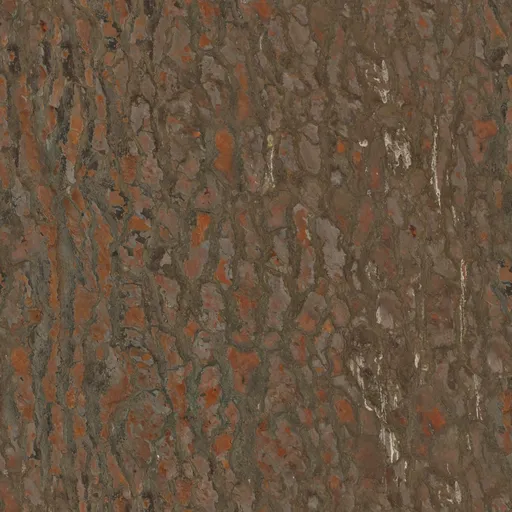
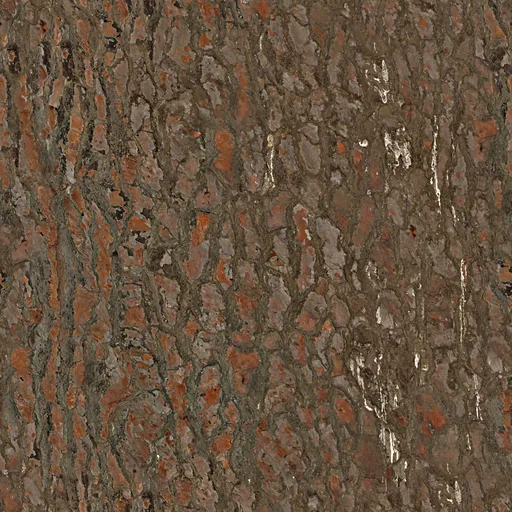
見渡す：「動作と方向」の許可を毎回聞かないように（横向きボタンを押したときだけ。許可済みなら聞かずに傾きを使う）。幹の樹皮の色を落ち着かせ、模様を細かく・凹凸を強く、丸い幹の陰をなめらかに
Claude-Session: https://claude.ai/code/session_01Xg49PJQ9EL5FHUZ5isJe5o

diff --git a/index.html b/index.html
@@ -4882,7 +4882,7 @@ async function pLookOpen(){
   /* 木の見た目：ゼルダ調（塗り）か、写真の質感か。写真の素材（Poly Haven・CC0）は先に読み始めておく */
   const REALT=(()=>{ const q=new URLSearchParams(location.search).get('lkreal'); if(q!=null) return q==='1'; try{ return localStorage.getItem('ql-tree')==='real'; }catch(e){ return false; } })();
   /* 幹の樹皮は写真（Poly Haven・CC0：ケヤキ・クスノキ・桜・トウカエデ・コナラ・マツ）。凹凸の向き（法線）の絵も使って、光で溝が陰になる */
-  const PBN=['zelkova','camphor','sakura','maple','oak','pine'], BIMG=/lkoldbark/.test(location.search)?null:Promise.all(PBN.flatMap(n=>['tex_b_','tex_bn_'].map(p=>new Promise(r=>{ const i=new Image(); i.onload=()=>r(i); i.onerror=()=>r(null); i.src=p+n+'.webp?v=1'; }))));
+  const PBN=['zelkova','camphor','sakura','maple','oak','pine'], BIMG=/lkoldbark/.test(location.search)?null:Promise.all(PBN.flatMap(n=>['tex_b_','tex_bn_'].map(p=>new Promise(r=>{ const i=new Image(); i.onload=()=>r(i); i.onerror=()=>r(null); i.src=p+n+'.webp?v=2'; }))));
   const RIMG=REALT?Promise.all(['leaf','twig','bark'].map(n=>new Promise(r=>{ const i=new Image(); i.onload=()=>r(i); i.onerror=()=>r(null); i.src='tex_'+n+'.webp?v=1'; }))):null;
   if(!L.alive) return;
   const mir=x=>x /* 旅の幅の外も折り返さず、地図と同じ土地をそのまま続ける */, vOf=y=>y/PX+pOff, rng=pRng('lk'+k,3), sm=(a,b,x)=>{ const t=Math.max(0,Math.min(1,(x-a)/(b-a))); return t*t*(3-2*t); };
@@ -4924,12 +4924,13 @@ async function pLookOpen(){
      TILT＝1：左に倒した（右の辺が上）　-1：右に倒した（左の辺が上）　0：縦 */
   const applyLand=()=>{ const real=window.innerWidth>window.innerHeight, t=AUTO&&!real?TILT:0; ov.classList.toggle('land',t===1); ov.classList.toggle('landR',t===-1); ov.style.setProperty('--vw',window.innerWidth+'px'); ov.style.setProperty('--vh',window.innerHeight+'px'); rotB.classList.toggle('on',AUTO); rotB.style.display=real?'none':''; L.land=t; };
   const rs=()=>{ applyLand(); const w=ov.clientWidth, h=ov.clientHeight; ren.setSize(w,h,false); cam.aspect=w/h; cam.updateProjectionMatrix(); }; L.rs=rs; window.addEventListener('resize',rs); window.addEventListener('orientationchange',()=>setTimeout(rs,250)); rs();
-  { let gx=0, gy=-9.8; const onM=e=>{ const g=e.accelerationIncludingGravity; if(!g||g.x==null) return; gx+=(g.x-gx)*.2; gy+=(g.y-gy)*.2; let t=TILT; if(Math.abs(gx)>6.2&&Math.abs(gx)>Math.abs(gy)*1.4) t=gx<0?1:-1; else if(Math.abs(gy)>6.2&&Math.abs(gy)>Math.abs(gx)*1.4) t=0; if(t!==TILT){ TILT=t; rs(); } };
+  { let gx=0, gy=-9.8; let live=false; const onM=e=>{ const g=e.accelerationIncludingGravity; if(!g||g.x==null) return; live=true; gx+=(g.x-gx)*.2; gy+=(g.y-gy)*.2; let t=TILT; if(Math.abs(gx)>6.2&&Math.abs(gx)>Math.abs(gy)*1.4) t=gx<0?1:-1; else if(Math.abs(gy)>6.2&&Math.abs(gy)>Math.abs(gx)*1.4) t=0; if(t!==TILT){ TILT=t; rs(); } };
     let asked=false; const ask=()=>{ if(asked||!AUTO) return; asked=true; const DM=window.DeviceMotionEvent; if(DM&&typeof DM.requestPermission==='function') DM.requestPermission().then(r=>{ if(r==='granted') window.addEventListener('devicemotion',onM); }).catch(()=>{}); else window.addEventListener('devicemotion',onM); };
     L.motionOff=()=>window.removeEventListener('devicemotion',onM);
-    if(!(window.DeviceMotionEvent&&typeof DeviceMotionEvent.requestPermission==='function')) ask(); /* 許可のいらない端末はすぐ */
-    ov.addEventListener('click',ask,true); ov.addEventListener('touchend',ask,true); /* iPhoneは、最初に画面に触れたときに一度だけ「動きと向き」の許可を聞く */
-    rotB.addEventListener('click',e=>{ e.stopPropagation(); AUTO=!AUTO; try{ localStorage.setItem('ql-land',AUTO?'1':'0'); }catch(e){} if(AUTO) ask(); rs(); }); }
+    /* 許可を聞くのは、横向きボタンを押したときだけ（毎回、画面に触れるたびに聞かれないように）。すでに許可されていれば、聞かずに傾きを使う */
+    window.addEventListener('devicemotion',onM); if(!(window.DeviceMotionEvent&&typeof DeviceMotionEvent.requestPermission==='function')) asked=true;
+    rotB.addEventListener('click',e=>{ e.stopPropagation(); if(!live&&!asked&&window.DeviceMotionEvent&&typeof DeviceMotionEvent.requestPermission==='function'){ AUTO=true; try{ localStorage.setItem('ql-land','1'); }catch(e){} asked=true; DeviceMotionEvent.requestPermission().catch(()=>{}); rs(); return; }
+      AUTO=!AUTO; try{ localStorage.setItem('ql-land',AUTO?'1':'0'); }catch(e){} rs(); }); }
   /* 画面の指の動きを、まわした中の向きに直す */ const tc=(x,y)=>L.land===1?{x:y,y:window.innerWidth-x}:L.land===-1?{x:window.innerHeight-y,y:x}:{x,y};
   // ---- 太陽と空の色（今の時刻・天気）----
   let wx=null; try{ wx=JSON.parse(localStorage.getItem(WX_KEY)||'null'); }catch(e){} const wc=+(new URLSearchParams(location.search).get('wx'))||(isT&&wx&&Date.now()-wx.at<3*3600e3?wx.code:1), cc=isT&&wx&&wx.cc!=null?wx.cc:35, rl=WXFX.rain[wc]||0, sl=WXFX.snow[wc]||0, wet=rl||sl;
@@ -5256,10 +5257,11 @@ void main() {`)
   //  4つの形：横に広い傘の木／丸い木／幹の高い木／若い木
   const RI=RIMG?await Promise.race([RIMG,new Promise(r=>setTimeout(()=>r(null),8000))]):null, RLf=RI&&RI[0], RTw=RI&&RI[1], RBk=RI&&RI[2];
   const BI=BIMG?await Promise.race([BIMG,new Promise(r=>setTimeout(()=>r(null),8000))]):null, PB={};
-  if(BI) PBN.forEach((n,i)=>{ const d=BI[2*i], nm=BI[2*i+1]; if(!d||!nm) return; const m=new T.Texture(d), q=new T.Texture(nm); m.colorSpace=T.SRGBColorSpace; m.anisotropy=2; q.colorSpace=T.NoColorSpace; for(const t of [m,q]){ t.wrapS=t.wrapT=T.RepeatWrapping; t.repeat.set(1,3); t.needsUpdate=true; } PB[n]={m,n:q}; });
-  const bkN=(mat,k)=>{ if(PB[k]){ mat.normalMap=PB[k].n; mat.normalScale=new T.Vector2(1.4,1.4); } return mat; };
+  if(BI) PBN.forEach((n,i)=>{ const d=BI[2*i], nm=BI[2*i+1]; if(!d||!nm) return; const m=new T.Texture(d), q=new T.Texture(nm); m.colorSpace=T.SRGBColorSpace; m.anisotropy=2; q.colorSpace=T.NoColorSpace; for(const t of [m,q]){ t.wrapS=t.wrapT=T.RepeatWrapping; t.repeat.set(2,6); t.needsUpdate=true; } PB[n]={m,n:q}; });
+  const bkN=(mat,k)=>{ if(PB[k]){ mat.normalMap=PB[k].n; mat.normalScale=new T.Vector2(2.2,2.2); mat.color.setRGB(.82,.8,.8); mat.gradientMap=gmB; } return mat; }; /* 幹：少し暗く落ち着いた色にし、丸い幹の陰が段にならずなめらかに出る陰影に */
   const imgTex=(im,rep)=>{ const t=new T.Texture(im); t.colorSpace=T.SRGBColorSpace; if(rep){ t.anisotropy=2; }; if(rep) t.wrapS=t.wrapT=T.RepeatWrapping; t.needsUpdate=true; return t; };
   /* 写真の質感のときは、光の段（ゼルダ調の3段の塗り）をやめて、なめらかに明るさが移る陰影にする */
+  const gmB=(()=>{ const c=document.createElement('canvas'); c.width=8; c.height=1; const x=c.getContext('2d'); for(let i=0;i<8;i++){ const v=Math.round(255*(.3+.7*Math.pow(i/7,.85))); x.fillStyle=`rgb(${v},${v},${v})`; x.fillRect(i,0,1,1); } const t=new T.CanvasTexture(c); t.minFilter=t.magFilter=T.LinearFilter; t.colorSpace=T.NoColorSpace; return t; })();
   const gmT=(()=>{ if(!REALT) return gmap; const c=document.createElement('canvas'); c.width=8; c.height=1; const x=c.getContext('2d'); for(let i=0;i<8;i++){ const v=Math.round(255*(.42+.58*Math.pow(i/7,.9))); x.fillStyle=`rgb(${v},${v},${v})`; x.fillRect(i,0,1,1); } const t=new T.CanvasTexture(c); t.minFilter=t.magFilter=T.LinearFilter; t.colorSpace=T.NoColorSpace; return t; })();
   for(let q=0;q<700;q++) rng(); // 前の葉の絵が使っていた乱数の分（ほかの物の並びを変えない）
   /* 葉の絵：木の種類ごとに葉の形を変える（ovate＝ふつうの卵形、fan＝イチョウの扇、palm＝カエデの手のひら、small＝白樺の小さな三角、gloss＝常緑樹のつやのある葉、sakura＝桜のふちがぎざぎざの葉） */
